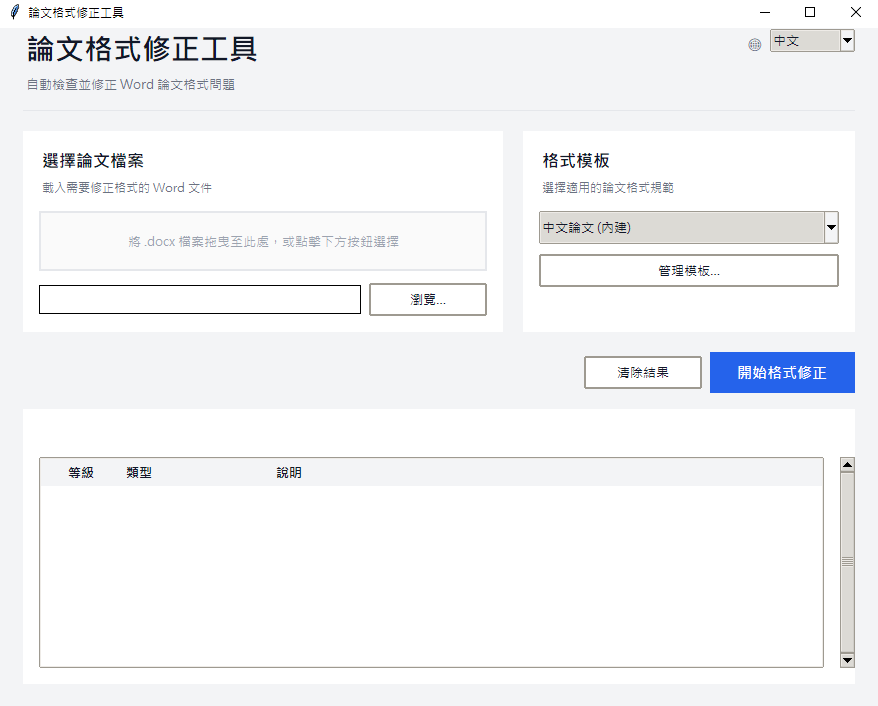
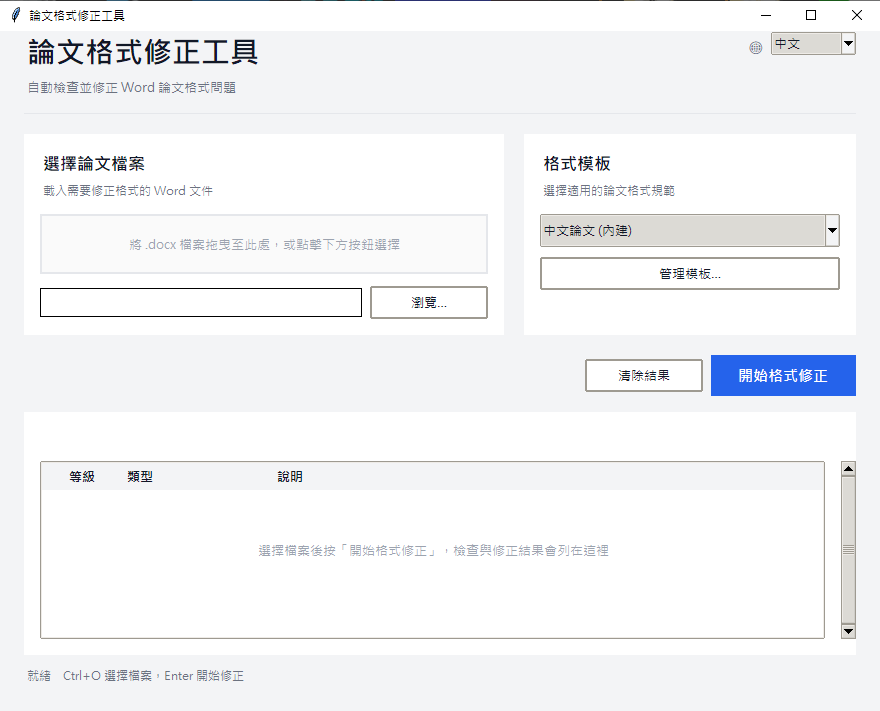
docs(tools): download links and new UI for Thesis Formatter v2.2.0 and Particle Analyzer v2.1.0
- Add 'download the executable' sections linking to the latest GitHub releases.
- Describe the faster flows: shortcuts, remembered settings, auto scale-bar
  detection, background analysis, open-output buttons.
- Replace the GUI images with real screenshots of the new interfaces (zh/en).
- Fix the output name: the formatter writes <name>_格式修正.docx.

diff --git a/src/content/zh/guides/particle-analyzer-guide/index.md b/src/content/zh/guides/particle-analyzer-guide/index.md
@@ -17,7 +17,7 @@ project: true
 
 在材料研究與品管流程中，粒徑分布的量化是一項基礎且頻繁的工作。典型情況是：取得一張掃描式電子顯微鏡（SEM）影像後，需要回報平均粒徑、分布寬度，以及 D10、D50、D90 等特徵值。若以人工方式逐顆量測，不僅耗時，量測邊界的判定也會帶入操作者間的變異。本篇介紹的 SEM 粒徑分析工具，即針對此需求設計，目標是以一致的流程產出可重複的數據。
 
-![示意圖：工具 GUI 主畫面，左側為參數面板，右側為載入的 SEM 影像](./particle-analyzer-gui.png)
+![實機畫面：SEM 粒徑分析工具 v2.1.0 分析完成，左上為 Watershed 分割結果（230 顆、D50 288 nm），左下為粒徑分布，右側為操作與參數面板](./particle-analyzer-gui.png)
 
 ## 工具功能概述
 
@@ -45,15 +45,21 @@ project: true
 - 課程或專題報告：當學生未取得商業影像軟體授權時，此開源工具可直接使用。
 - 多樣品批次處理：單一指令即可對整個資料夾進行分析，適合需要進行統計比較的情境。
 
-## 安裝與準備
+## 下載執行檔（不需安裝 Python）
 
-執行環境需 Python 3.8 以上。依賴套件安裝指令如下：
+最快的方式是直接下載 Windows 執行檔：[ParticleAnalyzer.exe（約 195 MB）](https://github.com/hujerry96/particle-analyzer/releases/latest/download/ParticleAnalyzer.exe)。雙擊即可執行，不需安裝 Python 或任何套件。所有版本與更新說明都在 [GitHub Releases](https://github.com/hujerry96/particle-analyzer/releases)。
+
+圖形介面的流程很短：按 `Ctrl+O` 載入 SEM 影像，工具會自動偵測影像上的比例尺；偵測成功就直接按 `F5` 分析，偵測不到再按 `Ctrl+K` 手動校正。分析在背景執行，視窗不會卡住，底部狀態列會顯示目前進度與結果；完成後按 `Ctrl+E` 匯出，預設存到影像所在資料夾。語言、顯示單位、比例尺長度與上次的資料夾都會被記住。
+
+## 從原始碼執行（選用）
+
+若想修改程式或使用命令列批次處理，執行環境需 Python 3.8 以上。依賴套件安裝指令如下：
 
 ```bash
 pip install opencv-python numpy pandas matplotlib scipy scikit-image pillow
 ```
 
-若使用圖形介面，直接執行：
+若使用圖形介面，直接執行（也可以在後面加上影像路徑，開啟時直接載入）：
 
 ```bash
 python particle_analyzer_gui.py
@@ -65,9 +71,11 @@ python particle_analyzer_gui.py
 
 SEM 影像中的長度單位為像素，而分析目標通常為微米。因此校正為必要的前處理步驟，工具提供兩種方式：
 
-互動式校正最為直覺。載入影像後，以滑鼠點選比例尺的兩端，再輸入該段距離所代表的實際微米數，工具即推算出 μm/pixel 換算比例。
+自動偵測最省事。圖形介面在載入影像時就會嘗試辨識比例尺，成功時面板會顯示「(自動) 218 px = 1.0 μm」這類換算結果，可直接分析。
 
-自動偵測適用於批次作業。工具會嘗試自行定位影像中的比例尺，搭配 `--no-interactive` 參數，即可在不須人工介入的情況下處理整個資料夾。
+互動式校正則用於偵測失敗或需要確認時。按 `Ctrl+K` 後，以滑鼠點選比例尺的兩端，再輸入該段距離所代表的實際微米數，工具即推算出 μm/pixel 換算比例。
+
+命令列同樣支援自動偵測，搭配 `--no-interactive` 參數，即可在不須人工介入的情況下處理整個資料夾。
 
 若換算比例已知，亦可直接指定以略過校正：
 

diff --git a/src/content/en/guides/thesis-formatter-guide-en/index.md b/src/content/en/guides/thesis-formatter-guide-en/index.md
@@ -18,7 +18,7 @@ project: true
 
 Bringing a master or PhD thesis into formal compliance is often a heavy and error-prone stage of the writing process. Institutional style guides are typically lengthy and demanding: Roman numerals for the front matter, Arabic for the body; figure numbers as "Figure 1.1" rather than "Figure 1-1"; heading levels, first-line indents, line spacing, and reference cross-references, any one of which can trigger a rejection. The Thesis Format Fixer presented here targets this repetitive, rule-defined work with an automated solution.
 
-![Screenshot: the tool GUI after dropping in a Word file, showing the list of fixable issues](./thesis-formatter-gui.png)
+![Screenshot: Thesis Format Fixer v2.2.0, with file selection on the left, the format template on the right, and the results list below](./thesis-formatter-gui.png)
 
 ## What the tool does
 
@@ -41,9 +41,13 @@ The tool consolidates "check and fix" into a single operation. It scans, present
 - A shared rule set within a lab, so that theses produced by different members stay consistent.
 - Recovering a structurally disordered document to a usable state without rebuilding it from scratch.
 
-## Install and setup
+## Download the executable (no Python needed)
 
-The runtime requires Python 3.8 or newer. Install the dependencies:
+The fastest way to start is the Windows executable: [ThesisFormatter.exe (about 19 MB)](https://github.com/hujerry96/thesis-formatter/releases/latest/download/ThesisFormatter.exe). Double-click to run; no Python or packages to install. Every version and its notes live on [GitHub Releases](https://github.com/hujerry96/thesis-formatter/releases).
+
+## Run from source (optional)
+
+To modify the code or build it into your own workflow, you need Python 3.8 or newer. Install the dependencies:
 
 ```bash
 pip install -r requirements.txt
@@ -59,7 +63,11 @@ The most convenient path is the GUI:
 python main.py
 ```
 
-Drag a Word file into the window, or click "Select File". The tool analyzes first and shows the fixable items on screen. Select what to fix, run it, and a `_fixed.docx` is saved alongside.
+It takes three steps: drop the Word file into the window (or onto the path field, or click "Browse…"), check the format template on the right, and press Enter. The tool first checks that the file is a valid .docx, then runs the checks and fixes and saves a copy named `filename_格式修正.docx`. The original is never overwritten.
+
+When it finishes, errors and warnings are listed first, and a summary shows how many errors, warnings, notes and fixes there were. Use "Open File" or "Open Folder" to go straight to the output.
+
+Shortcuts: `Ctrl+O` choose a file, `Enter` or `F5` start, `Ctrl+L` clear results. The last template and folder are remembered for next time.
 
 The top-right of the window switches language (中文 / English), and the choice is remembered, so the next launch opens in the selected language.
 

diff --git a/src/content/zh/guides/thesis-formatter-guide/index.md b/src/content/zh/guides/thesis-formatter-guide/index.md
@@ -17,7 +17,7 @@ project: true
 
 在碩博士論文的產出過程中，格式符合規範往往是一項繁重且易於出錯的環節。各校撰寫規範通常篇幅冗長，要求繁複：前頁採羅馬數字頁碼、本文採阿拉伯數字；圖表編號須為「圖 1.1」而非「圖1-1」；標題階層、首行縮排、行距、參考文獻交叉參照等，任一項不符即可能遭退件。本篇介紹的論文格式修正工具，即針對此一重複性高、規則明確的工作，提供自動化的解決方案。
 
-![示意圖：工具 GUI 主畫面，拖入 Word 檔後顯示可修正的問題清單](./thesis-formatter-gui.png)
+![實機畫面：論文格式修正工具 v2.2.0 主畫面，左側選擇論文檔案、右側選擇格式模板，下方列出檢查與修正結果](./thesis-formatter-gui.png)
 
 ## 工具功能概述
 
@@ -40,9 +40,13 @@ project: true
 - 實驗室內部共用同一份格式規則，使產出論文的格式保持一致。
 - 協助將格式紊亂的文件回復至可用狀態，無須從頭重排。
 
-## 安裝與準備
+## 下載執行檔（不需安裝 Python）
 
-執行環境需 Python 3.8 以上。依賴套件安裝指令如下：
+最快的方式是直接下載 Windows 執行檔：[ThesisFormatter.exe（約 19 MB）](https://github.com/hujerry96/thesis-formatter/releases/latest/download/ThesisFormatter.exe)。雙擊即可執行，不需安裝 Python 或任何套件。所有版本與更新說明都在 [GitHub Releases](https://github.com/hujerry96/thesis-formatter/releases)。
+
+## 從原始碼執行（選用）
+
+若想修改程式或整合進自己的流程，執行環境需 Python 3.8 以上。依賴套件安裝指令如下：
 
 ```bash
 pip install -r requirements.txt
@@ -58,7 +62,11 @@ requirements 中包含 python-docx、lxml、PyYAML；圖形介面所用的 tkint
 python main.py
 ```
 
-將 Word 檔拖入視窗，或點選「選擇檔案」。工具會先執行分析，於畫面列出可修正項目，勾選欲修正者後執行，即另存一份 `_fixed.docx`。
+操作只有三步：把 Word 檔拖進視窗（或拖到路徑欄、按「瀏覽…」），確認右側的格式模板，按 Enter 開始。工具會先檢查檔案是否為有效的 .docx，再完成檢查與修正，另存一份 `檔名_格式修正.docx`，原檔不會被覆蓋。
+
+完成後，結果表會先列出錯誤與警告，上方摘要顯示錯誤、警告、資訊與已修正的數量；按「開啟檔案」或「開啟資料夾」即可直接查看輸出。
+
+常用快捷鍵：`Ctrl+O` 選擇檔案、`Enter` 或 `F5` 開始修正、`Ctrl+L` 清除結果。工具會記住上次使用的格式模板與資料夾，下次開啟不必重選。
 
 介面右上角可切換語言（中文 / English），該選擇會被記錄，下次啟動即為所選語言。
 

diff --git a/src/content/en/guides/particle-analyzer-guide-en/index.md b/src/content/en/guides/particle-analyzer-guide-en/index.md
@@ -18,7 +18,7 @@ project: true
 
 Quantifying particle size distribution is a frequent and foundational task in materials research and quality control. The typical workflow begins with a scanning electron microscopy (SEM) image, after which the mean diameter, distribution width, and characteristic values such as D10, D50, and D90 must be reported. Manual measurement by hand is time consuming and introduces inter-operator variability in how boundaries are drawn. The SEM Particle Analyzer described here targets this need: it produces reproducible numbers through a consistent, automated pipeline.
 
-![Screenshot: the tool GUI with the parameter panel on the left and a loaded SEM image on the right](./particle-analyzer-gui.png)
+![Screenshot: SEM Particle Analyzer v2.1.0 after a run, with the Watershed segmentation (230 particles, D50 288 nm) top left, the size distribution below, and the controls on the right](./particle-analyzer-gui.png)
 
 ## What the tool does
 
@@ -46,9 +46,15 @@ The tool fixes "how to measure" into a defined procedure. The same image as inpu
 - Coursework and project reports, where students may lack a license for commercial software.
 - Batch processing of many samples: one command analyzes a whole folder, useful when statistical comparison is required.
 
-## Install and setup
+## Download the executable (no Python needed)
 
-The runtime requires Python 3.8 or newer. Install the dependencies:
+The fastest way to start is the Windows executable: [ParticleAnalyzer.exe (about 195 MB)](https://github.com/hujerry96/particle-analyzer/releases/latest/download/ParticleAnalyzer.exe). Double-click to run; no Python or packages to install. Every version and its notes live on [GitHub Releases](https://github.com/hujerry96/particle-analyzer/releases).
+
+The GUI flow is short: press `Ctrl+O` to load an SEM image and the scale bar is detected automatically. If it is found, press `F5` to analyze; if not, press `Ctrl+K` to calibrate by hand. Analysis runs in the background so the window stays responsive, and the status bar shows progress and the result. Press `Ctrl+E` to export, which defaults to the image's folder. Language, display unit, scale length and recent folders are remembered.
+
+## Run from source (optional)
+
+To modify the code or batch-process from the command line, you need Python 3.8 or newer. Install the dependencies:
 
 ```bash
 pip install opencv-python numpy pandas matplotlib scipy scikit-image pillow
